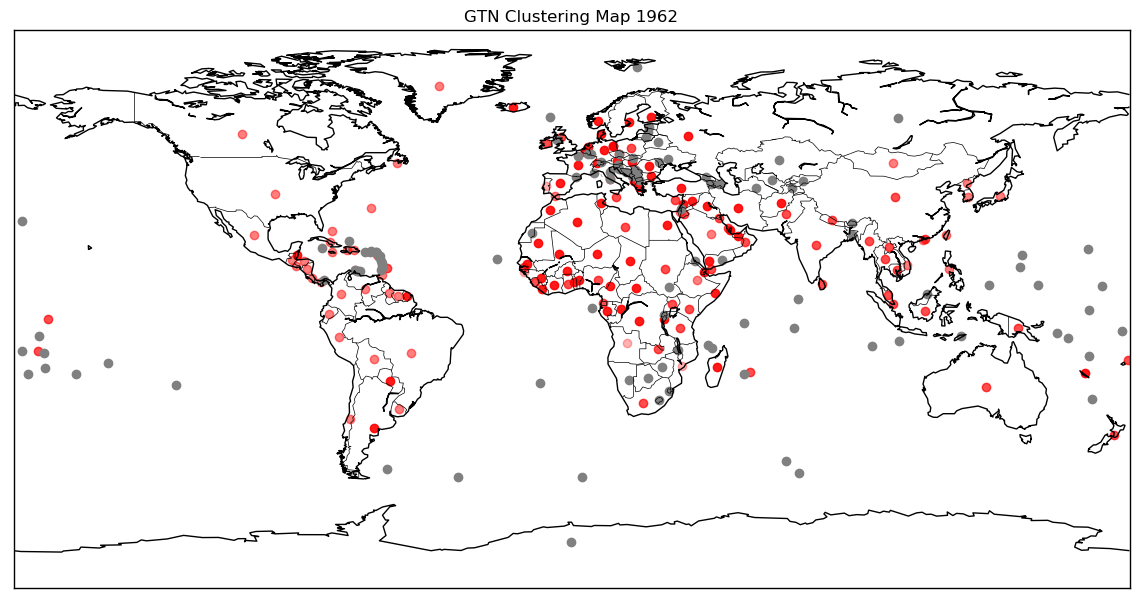
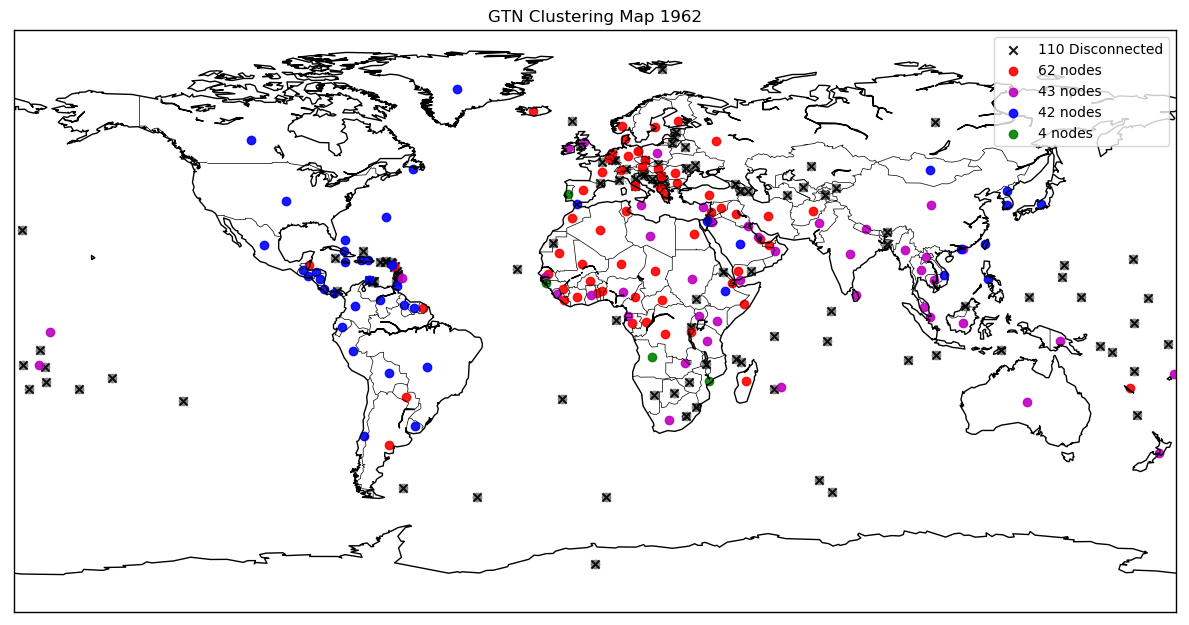
updated GTN clustering plot to map script. Added plots to GTN_clust_maps dir.

diff --git a/code/plot_WTmap_clust.py b/code/plot_WTmap_clust.py
@@ -22,20 +22,19 @@ getcontext().prec = 3  # later used for adjusting alpha in scatter plot
 # baden Nature 2016 529. imaging retina
 
 
-# This script Construct directed network Graph object that NetworkX can analyze from the Adjacency matrix
-# loaded from an .npz file. It will save the graph object as a .gpickle file. It will also save output
-# figures of the Adjacency Matrix, and the network overlayed on a map.
+# This script clusters the network graph and
+# displays the clusters overlayed on a map.
 
 #------------------------------------------------------------------------------------------------------------
 ## (0). Check what Operating System you are on (either my machine or Cortex cluster) and adjust directory structure accordingly.
 dirPre = dm.set_dir_tree()
 
-for file_year in np.arange(1962, 1963):
+for file_year in np.arange(2005, 2015):
 	try:
 	    year = np.array(file_year)
 	    flg_sym = True
 	    trade_ntwrkG = nm.construct_ntwrkX_Graph(dirPre=dirPre, year=year, flg_sym=flg_sym)
-	    # giant = max(nx.connected_component_subgraphs(G), key=len)
+	    giant = max(nx.connected_component_subgraphs(trade_ntwrkG), key=len)
 	    # out_deg = len(list(G)) - len(giant)
 	except:
 	    pass
@@ -43,14 +42,13 @@ for file_year in np.arange(1962, 1963):
 
 	part = c.best_partition(trade_ntwrkG, partition=None, weight='weight', resolution=res, randomize=False)
 	res_counts = Counter(part.values())
-	res_order = sorted(res_counts, key=lambda i: int(res_counts[i]))
+	res_order = sorted(res_counts, key=lambda i: int(res_counts[i]), reverse=True)
 	partition_sizes = Counter(res_counts.values())
-	lg_clust = [key for key, val in res_counts.items() if val == max(list(res_counts.values()))][0]
-
-	clust_node_dict = {str(res_order[-idx]):[key for key,val in part.items() if
-						val == res_order[-idx]] for idx in np.arange(1,len(res_order))
-						if res_counts[res_order[-idx]] > 1}
-
+	# lg_clust = [key for key, val in res_counts.items() if val == max(list(res_counts.values()))][0]
+	dc_nodes = set([node for node in trade_ntwrkG.nodes() if node not in list(giant)])
+	clust_node_dict = {str(res_order[idx]):[key for key,val in part.items() if
+						val == res_order[idx]] for idx in np.arange(len(res_order))
+						if res_counts[res_order[idx]] > 1}
 	ones_clusters = set([key for key,val in res_counts.items() if val == 1])
 	ones_nodes = set([key for key,val in part.items() if val in ones_clusters])
 	# extract node attributes for plotting
@@ -64,34 +62,43 @@ for file_year in np.arange(1962, 1963):
 	num_clusters = len(partition_sizes)
 	ones_LatLon = np.array([val for key, val in LatLon.items() if key in ones_nodes])
 	clust_LatLon = {k:np.array([val for key, val in LatLon.items() if key in v]) for k,v in clust_node_dict.items()}
+	dc_LatLon = np.array([val for key,val in LatLon.items() if key in dc_nodes])
 
-	inc = Decimal(0.2)
-	alpha = Decimal(0.9)
-	alphas = {}
-	for idx in res_order[:-num_clusters:-1]:
-		alphas[str(idx)] = float(alpha)
-		alpha -= inc
+	# inc = Decimal(0.2)
+	# alpha = Decimal(0.9)
+	# alphas = {}
+	# colors = list(plt.rcParams['axes.prop_cycle'])
+	# print(colors)
+	colors = ['g','r','m','b','c']
+	color_dict = {}
+	label_dict = {}
+	for idx in res_order[:num_clusters-1]:
+		color_dict[str(idx)] = colors[idx]
+		label_dict[str(idx)] = str(len(clust_node_dict[str(idx)])) + ' nodes'
+	# print(clust_node_dict.keys())
+	# print(res_order[:num_clusters-1], num_clusters)
 
 # #------------------------------------------------------------------------------------------------------------
-# # (5). Plot and save figure of graph in networkX (with nodes in relative geographic location,
-# #      labels for names, importd & exports for size.
+# (5). Plot and save figure of graph in networkX (with nodes in relative geographic location,
+#      labels for names, importd & exports for size.
 	figG = plt.figure(figsize=(15,9))
 	map1 = Basemap(projection='cyl')
 	pf.draw_map()
 
+	map1.scatter(ones_LatLon[:,0], ones_LatLon[:,1], marker='o', color='grey', alpha=0.9)
+	map1.scatter(dc_LatLon[:,0], dc_LatLon[:,1], marker='x', color='k', alpha=0.9, label= str(len(dc_nodes)) + ' Disconnected')
+
 	for key,val in clust_LatLon.items():
-		map1.scatter(val[:,0], val[:,1], marker= 'o', color='r', alpha=alphas[key])
-	map1.scatter(ones_LatLon[:,0], ones_LatLon[:,1], marker='o', color='grey')
+		map1.scatter(val[:,0], val[:,1],  marker= 'o', color=color_dict[key], alpha=0.9, label=label_dict[key])
 	plt.title("GTN Clustering Map " + str(file_year))
 	plt.xlim(-180, +180)
 	plt.ylim(-90,+90)
+	plt.legend(loc='best')
 	plt.show()
 
 
-
-	#
-	figG.savefig(str( '../out_figures/GTN_clust_maps/' + str(file_year) + '_clust_map.png' ), bbox_inches='tight')
-
+#
+#
+	# figG.savefig(str( '../out_figures/GTN_clust_maps/' + str(file_year) + '_clust_map.png' ), bbox_inches='tight')
+#
 	plt.close(figG)
-	#
-	#
